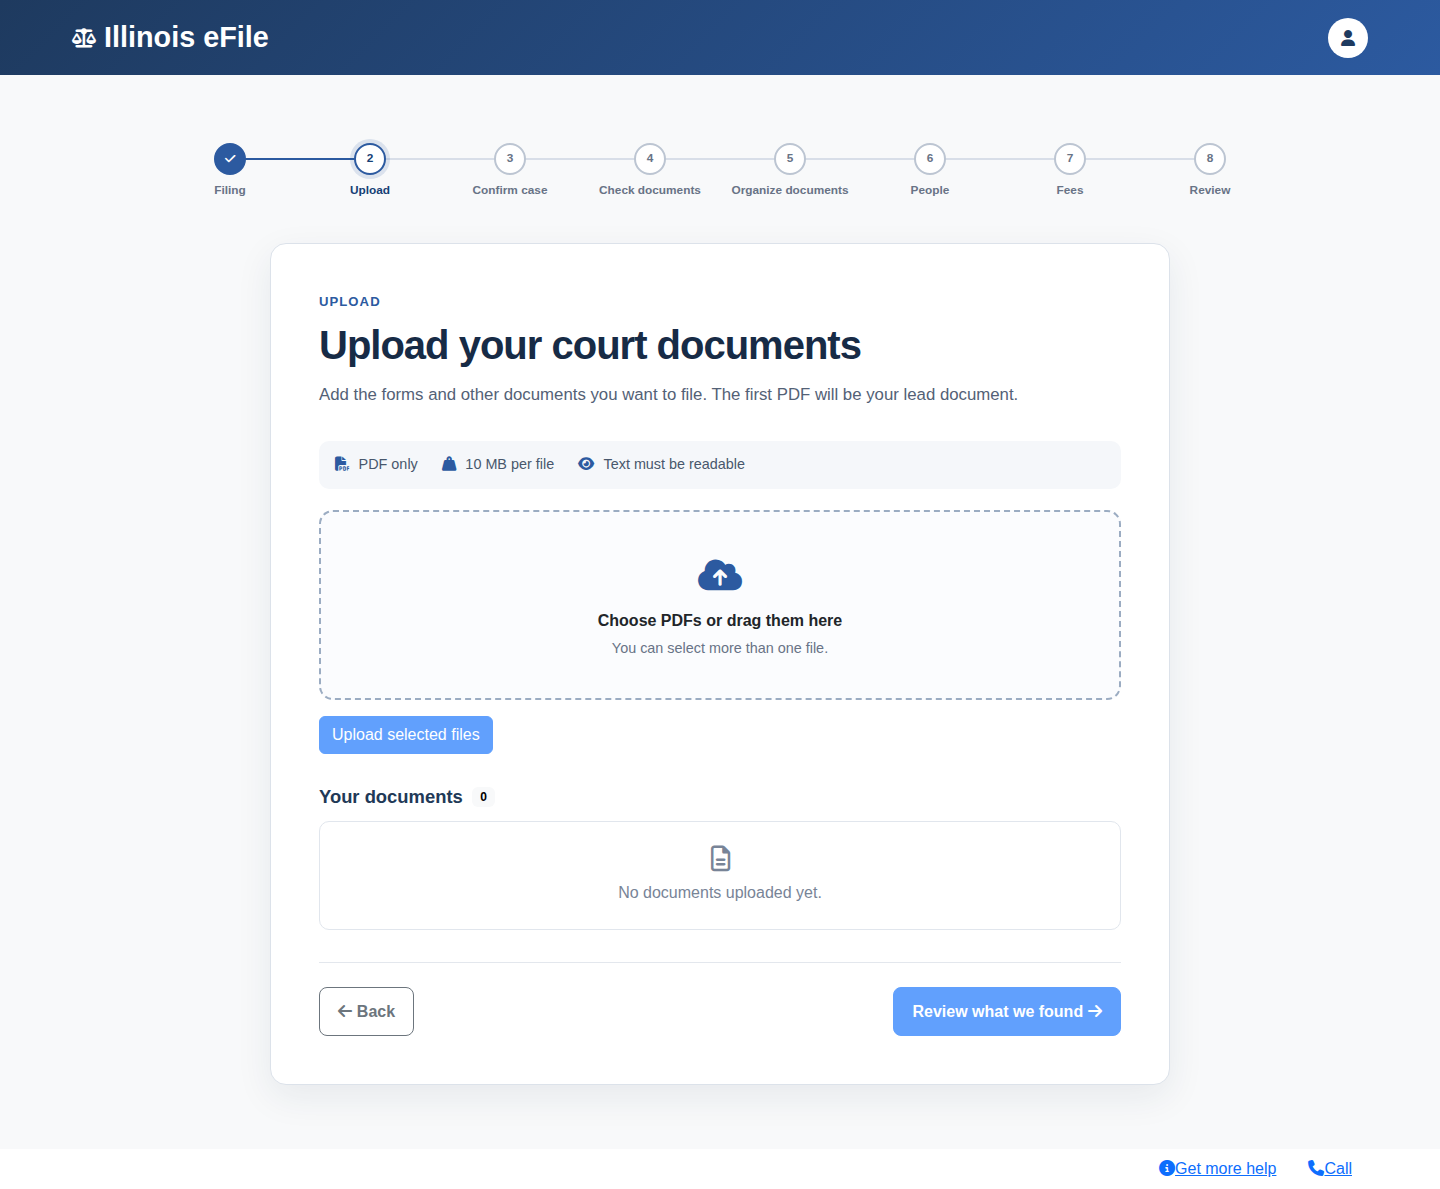
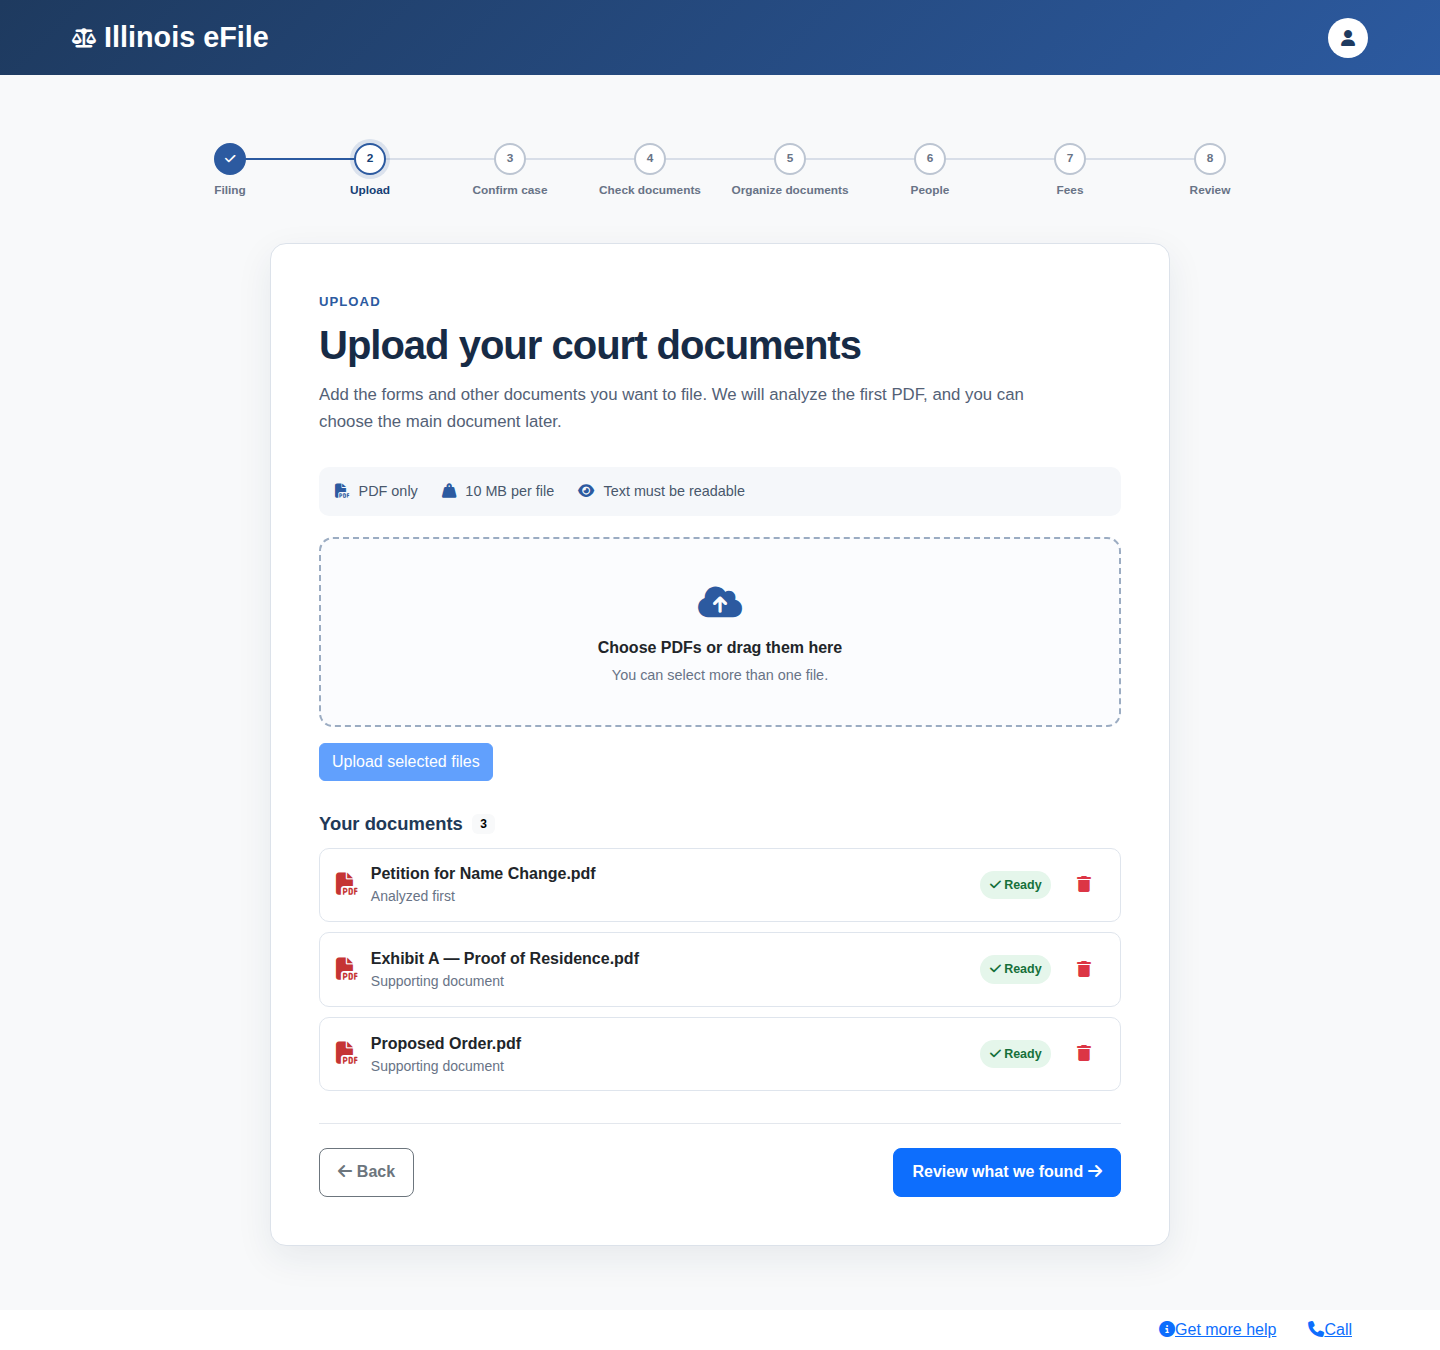
Clarify initial document analysis

diff --git a/efile_app/efile/templates/efile/upload_documents.html b/efile_app/efile/templates/efile/upload_documents.html
@@ -9,7 +9,7 @@
         <div class="workflow-eyebrow">{% translate "Upload" %}</div>
         <h1>{% translate "Upload your court documents" %}</h1>
         <p class="workflow-lede">
-            {% translate "Add the forms and other documents you want to file. The first PDF will be your lead document." %}
+            {% translate "Add the forms and other documents you want to file. We will analyze the first PDF, and you can choose the main document later." %}
         </p>
         <div class="requirements-strip">
             <span><i class="fa-solid fa-file-pdf"></i> {% translate "PDF only" %}</span>
@@ -52,7 +52,7 @@
                             <strong>{{ document.name|default:document.original_filename }}</strong>
                             <small>
                                 {% if document.role == "lead" %}
-                                    {% translate "Lead document" %}
+                                    {% translate "Analyzed first" %}
                                 {% else %}
                                     {% translate "Supporting document" %}
                                 {% endif %}

diff --git a/efile_app/efile/static/js/upload-documents.js b/efile_app/efile/static/js/upload-documents.js
@@ -43,7 +43,7 @@
         stateDetail.textContent = "Keep this page open.";
 
         const analyzingTimer = window.setTimeout(() => {
-            stateTitle.textContent = "Analyzing your lead document…";
+            stateTitle.textContent = "Analyzing your first PDF…";
             stateDetail.textContent = "We're looking for the court, case type, and case number.";
         }, 900);
 
